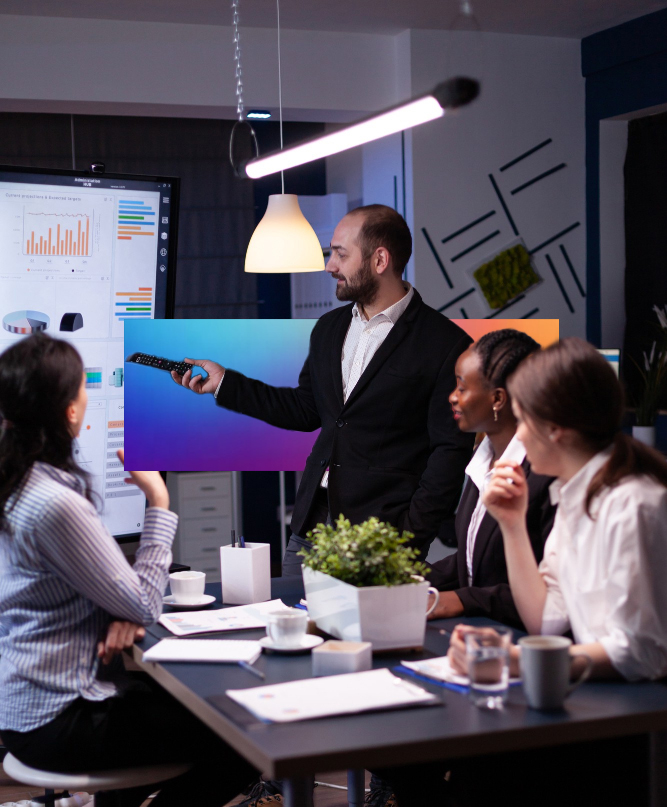
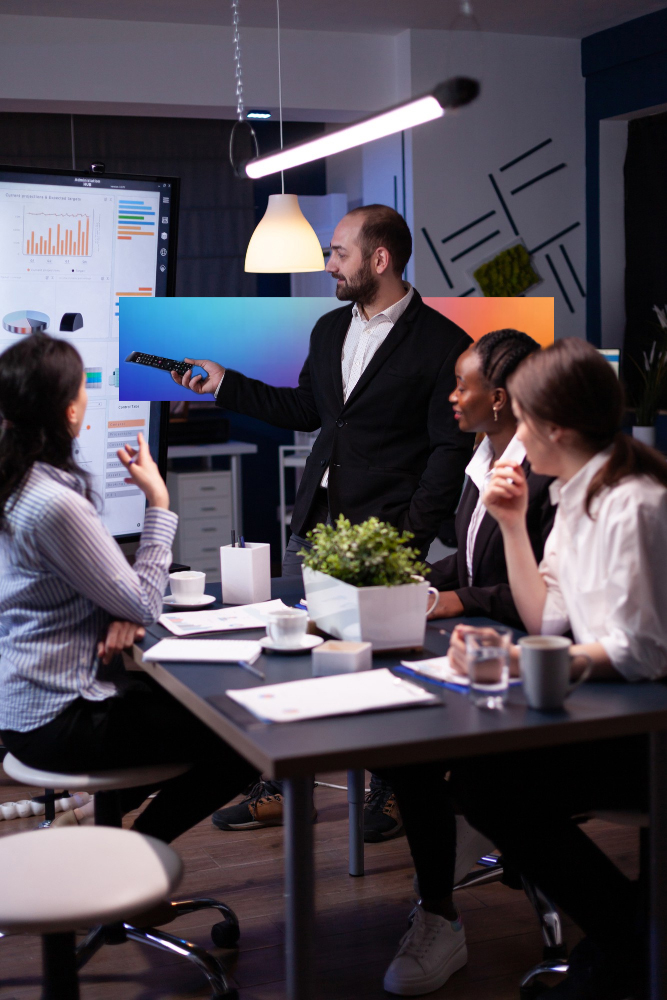
Fixed: Link

diff --git a/APP LMS/index.html b/APP LMS/index.html
@@ -642,7 +642,7 @@
         width: 100%;
         height: 100%;
         background-color: blue;
-        background: url(https://go.pardot.com/l/707483/2025-09-03/3vm66j/707483/1756921539HeoUPo1i/beneficios__1_.jpg);
+        background: url(https://go.pardot.com/l/707483/2025-09-08/3vvpby/707483/1757361693aORqll2A/foto__1_.jpg);
         background-position: 80%;
         background-repeat: no-repeat;
         background-size: cover;
